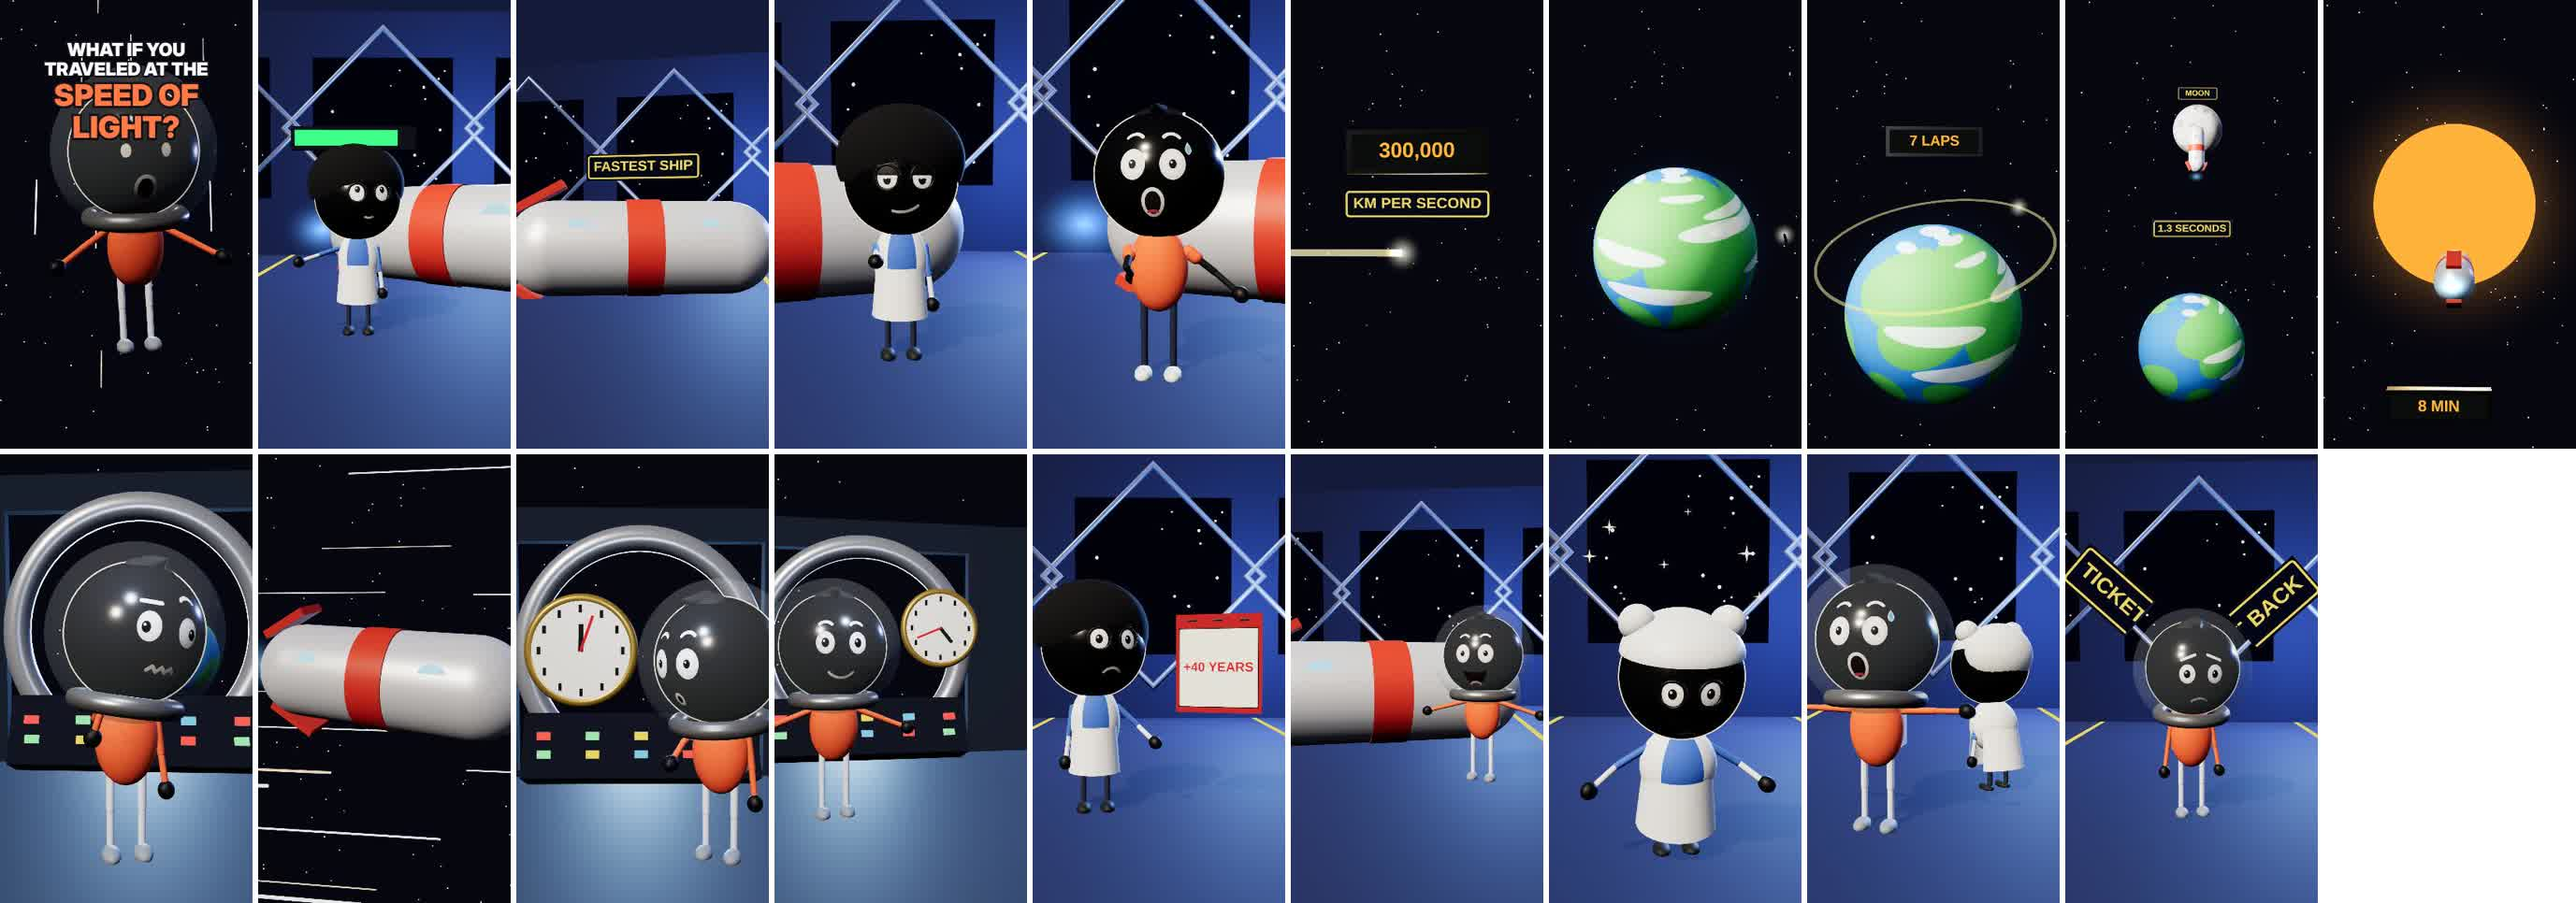
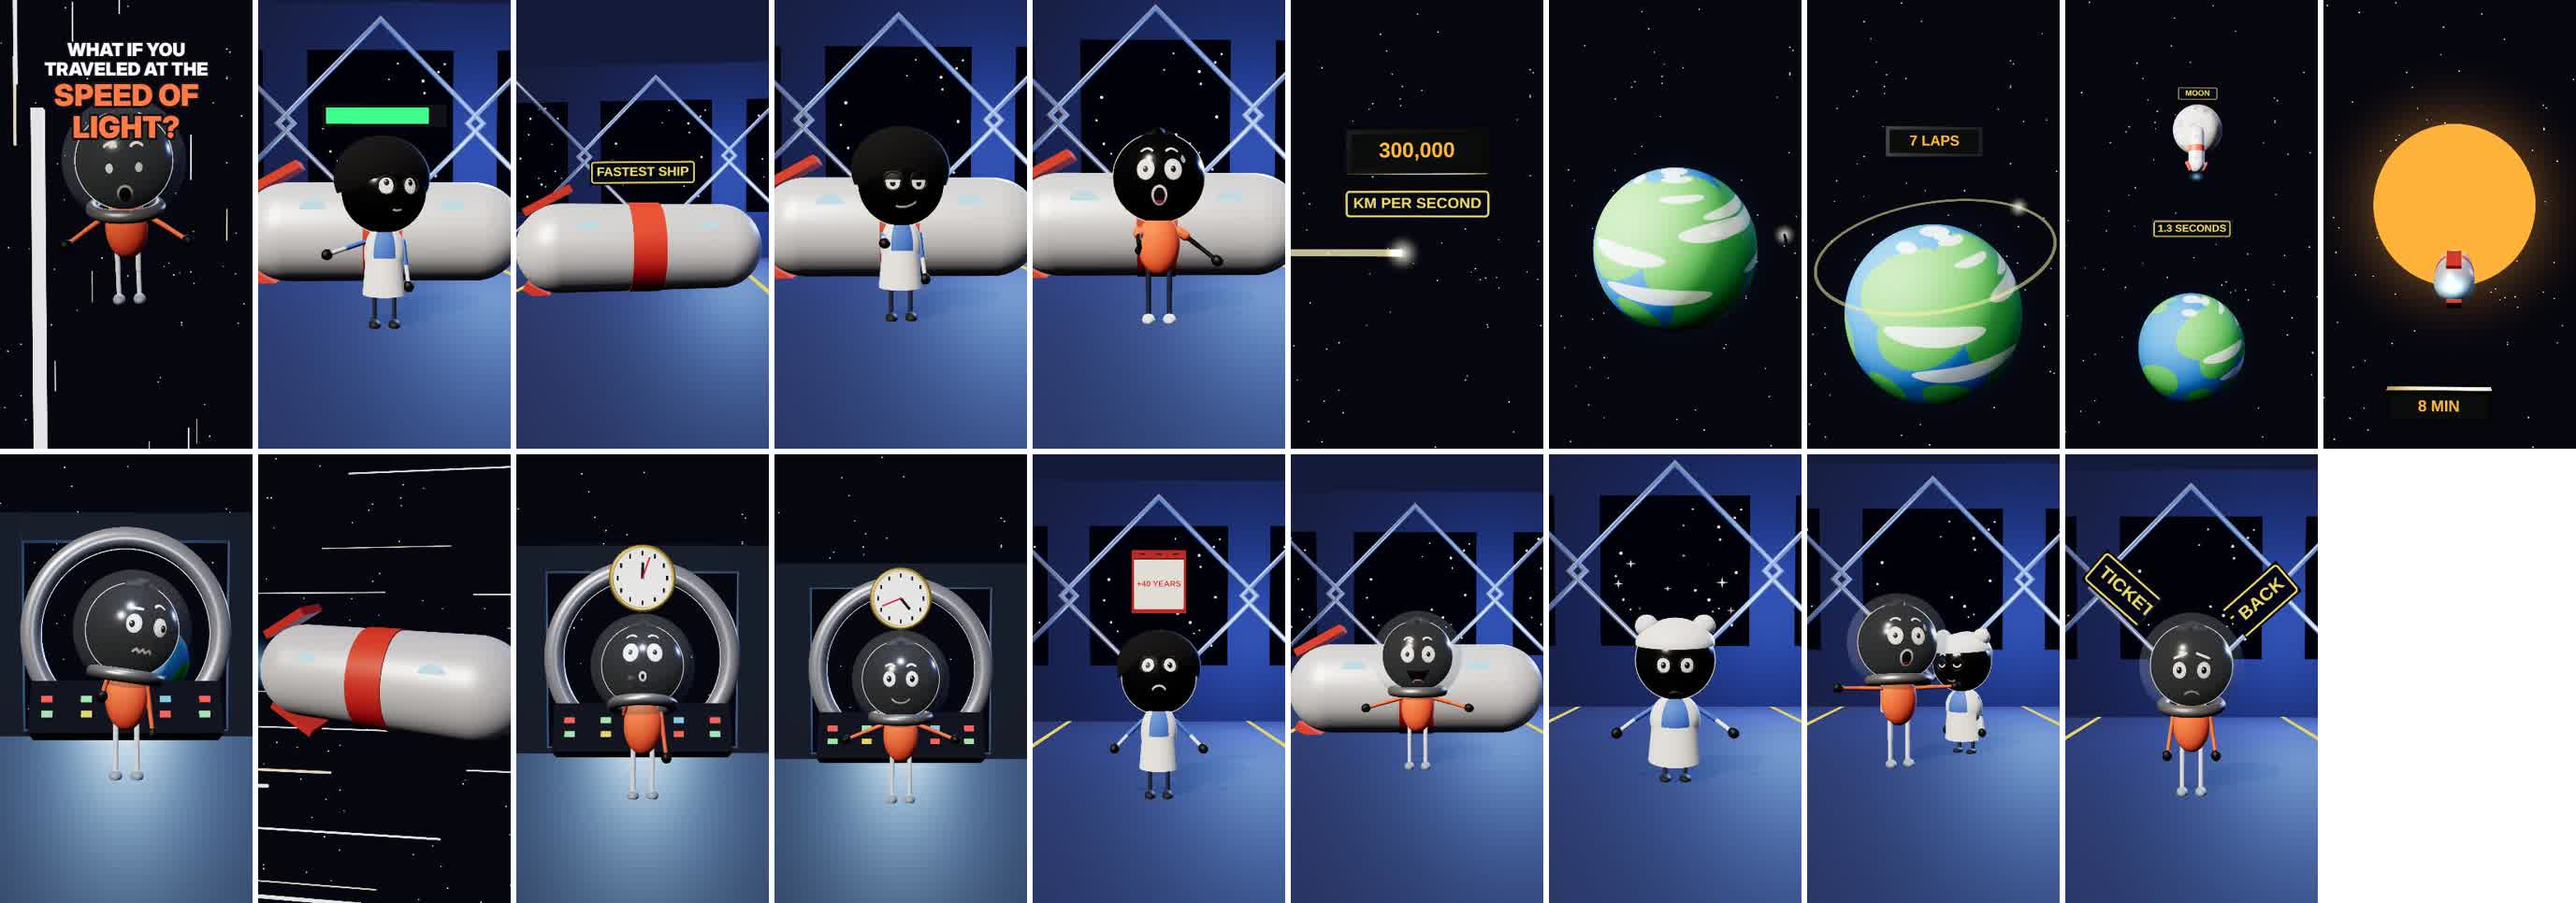
Velocidade da luz: personagens centralizados e câmera de corpo inteiro em todas as cenas
Claude-Session: https://claude.ai/code/session_016bHbYJzCDeLaYLq6osUnLA

diff --git a/velocidade-luz-shorts/src/shots.tsx b/velocidade-luz-shorts/src/shots.tsx
@@ -5,7 +5,7 @@ import { ASTRO, BreakingSign, Clock, Cockpit, Earth, FloatSign, Floating, Ship, 
 import { Titulo } from './hud';
 import { IARA, IARA_IDOSA, Lab, LightBolt, Moon, NINO, OrbitTrail, Ready, Space, Sun } from './luz';
 import { Calendar, LedCounter, Sparkles } from './props';
-import { Cam } from './sets';
+import { Cam, CamKey } from './sets';
 import { W } from './timeline';
 
 // ============================================================================
@@ -20,6 +20,12 @@ export type Shot = { from: number; name: string; C: (p: ShotProps) => JSX.Elemen
 const P = (o: Partial<Pose> = {}): Pose => ({ ...REST, ...o });
 const drift = (t: number, s = 0): V3 => [0.06 * Math.sin(t * 0.7 + s), 0.08 * Math.sin(t * 0.9 + s), 0];
 const FLOAT = { lsz: 0.7, rsz: 0.7, lel: 0.5, rel: 0.5 };
+// Câmera de corpo inteiro, sempre centralizada no personagem (x = 0): aproxima devagar sem cortar cabeça nem pés.
+// y = altura do alvo; d0 → d1 = distância no começo e no fim da tomada; lado = leve órbita lateral.
+const corpo = (t0: number, t1: number, y = 1.25, d0 = 5.8, d1 = 5.2, lado = 0.3): CamKey[] => [
+  [t0, [lado, y + 0.25, d0], [0, y, 0], 32],
+  [t1, [-lado * 0.5, y + 0.2, d1], [0, y, 0], 32],
+];
 
 // 1. "What if you traveled at the speed of *light?*"
 const S01 = ({ t, t0, t1 }: ShotProps) => {
@@ -31,8 +37,8 @@ const S01 = ({ t, t0, t1 }: ShotProps) => {
     <>
       <Space glowPos={[0, 4, -10]} glow="#9fd0ff" />
       <StarStreaks t={t} speed={speed} n={170} />
-      <Cam t={t} t0={t0} t1={t1} keys={[[t0, [0.3, -0.6, 4.4], [0, 0.1, 0], 32], [t1, [0.1, -0.4, 3.6], [0, 0.2, 0], 32]]} />
-      <Floating pose={pose} face={face} position={drift(t)} rotation={[0.15, 0.2, 0.05 * Math.sin(t)]} />
+      <Cam t={t} t0={t0} t1={t1} keys={corpo(t0, t1, 0, 5.6, 5.0, 0.2)} />
+      <Floating pose={pose} face={face} position={[0, drift(t)[1], 0]} rotation={[0.1, 0, 0.04 * Math.sin(t)]} />
     </>
   );
 };
@@ -43,14 +49,14 @@ const O01 = ({ t }: ShotProps) => (
 // 2. "Dr. Teo just *finished*" — a cientista no hangar, ao lado da nave pronta.
 const S02 = ({ t, t0, t1 }: ShotProps) => {
   const fi = W(1, 'finished');
-  const pose = track(t, P({ x: -0.35, ry: 0.0, hy: 0.0 }), [{ at: fi, v: { rsz: 1.4, rsx: 0.6, rel: 0.1, hy: 0.35, hp: -0.05 } }]);
+  const pose = track(t, P({ ry: 0.0, hy: 0.0 }), [{ at: fi, v: { rsz: 1.4, rsx: 0.6, rel: 0.1, hy: 0.35, hp: -0.05 } }]);
   const face = faceAt(t, [{ at: t0, f: 'thinking' }, { at: fi, f: 'confident' }], 2);
   return (
     <>
       <Lab t={t} />
-      <Ship t={0} position={[1.4, 1.05, -3.5]} rotation={[0, -0.6, 0]} scale={1.5} />
-      <Ready t={t} at={fi} position={[-0.4, 2.55, 0.1]} />
-      <Cam t={t} t0={t0} t1={t1} keys={[[t0, [-0.2, 1.7, 5.4], [0.0, 1.4, -0.8], 34], [t1, [0.0, 1.65, 4.7], [0.0, 1.4, -0.8], 34]]} />
+      <Ship t={0} position={[0, 1.05, -3.8]} rotation={[0, 0, 0]} scale={1.5} />
+      <Ready t={t} at={fi} position={[0, 2.75, 0.1]} />
+      <Cam t={t} t0={t0} t1={t1} keys={corpo(t0, t1, 1.35)} />
       <Character pose={pose} face={face} look={IARA} />
     </>
   );
@@ -66,7 +72,7 @@ const S03 = ({ t, t0, t1 }: ShotProps) => {
       <Ship t={t} position={[0, 1.05, -1.2]} rotation={[0, 0.25 * Math.sin(t * 0.3), 0]} scale={1.5} />
       <FloatSign t={t} at={fa} text="FASTEST SHIP" position={[0, 2.9, -1.2]} w={2.6} h={0.6} />
       <Sparkles t={t} from={wo} n={10} radius={2.0} center={[0, 1.3, -1]} size={0.3} />
-      <Cam t={t} t0={t0} t1={t1} keys={[[t0, [-4.5, 1.6, 7.5], [0, 1.5, -1.2], 34], [t1, [3.8, 1.8, 7.2], [0, 1.6, -1.2], 34]]} />
+      <Cam t={t} t0={t0} t1={t1} keys={[[t0, [-1.6, 1.8, 8.4], [0, 1.6, -1.2], 34], [t1, [1.6, 1.9, 8.0], [0, 1.6, -1.2], 34]]} />
     </>
   );
 };
@@ -80,8 +86,8 @@ const S04 = ({ t, t0, t1 }: ShotProps) => {
   return (
     <>
       <Lab t={t} />
-      <Ship t={0} position={[-1.9, 1.05, -2.5]} rotation={[0, 0.4, 0]} scale={1.5} />
-      <Cam t={t} t0={t0} t1={t1} keys={[[t0, [0.3, 1.6, 4.6], [0, 1.3, 0], 32], [t1, [0.1, 1.6, 3.9], [0, 1.35, 0], 32]]} />
+      <Ship t={0} position={[0, 1.05, -3.8]} scale={1.5} />
+      <Cam t={t} t0={t0} t1={t1} keys={corpo(t0, t1)} />
       <Character pose={pose} face={face} look={IARA} />
     </>
   );
@@ -90,13 +96,13 @@ const S04 = ({ t, t0, t1 }: ShotProps) => {
 // 5. "*You.*" — Nino aponta para si mesmo.
 const S05 = ({ t, t0, t1 }: ShotProps) => {
   const y = W(3, 'you');
-  const pose = track(t, P({ ry: -0.1 }), [{ at: y, v: { rsx: 1.2, rsz: -0.1, rel: -2.3, lsz: 0.9, lel: 0.4, squash: 0.08, hp: -0.1 } }]);
+  const pose = track(t, P({ ry: 0 }), [{ at: y, v: { rsx: 1.2, rsz: -0.1, rel: -2.3, lsz: 0.9, lel: 0.4, squash: 0.08, hp: -0.1 } }]);
   const face = faceAt(t, [{ at: t0, f: 'surprised' }, { at: y + 0.35, f: 'shocked', o: ['sweat'] }], 4);
   return (
     <>
       <Lab t={t} />
-      <Ship t={0} position={[2.0, 1.05, -3]} rotation={[0, -0.4, 0]} scale={1.5} />
-      <Cam t={t} t0={t0} t1={t1} keys={[[t0, [0.1, 1.6, 4.4], [0, 1.3, 0], 30], [t1, [0, 1.6, 3.7], [0, 1.35, 0], 30]]} />
+      <Ship t={0} position={[0, 1.05, -3.8]} scale={1.5} />
+      <Cam t={t} t0={t0} t1={t1} keys={corpo(t0, t1, 1.2, 5.4, 4.9, 0.15)} />
       <Character pose={pose} face={face} look={NINO} />
     </>
   );
@@ -182,14 +188,14 @@ const S10 = ({ t, t0, t1 }: ShotProps) => {
 // 11. "But here's where it gets *weird.*" — Nino na cabine, desconfiado.
 const S11 = ({ t, t0, t1 }: ShotProps) => {
   const we = W(8, 'weird');
-  const pose = track(t, P({ ry: 0.2 }), [{ at: we, v: { rsx: 2.2, rsz: 0.3, rel: -2.3, hy: 0.3, hr: -0.15 } }]);
+  const pose = track(t, P({ ry: 0 }), [{ at: we, v: { rsx: 2.2, rsz: 0.3, rel: -2.3, hy: 0.3, hr: -0.15 } }]);
   const face = faceAt(t, [{ at: t0, f: 'curious' }, { at: we, f: 'confused' }], 5);
   return (
     <>
       <Space glowPos={[0, 2, -10]} glow="#9fd0ff" />
       <Cockpit />
       <Earth t={t} position={[1, 1.4, -12]} r={1.4} />
-      <Cam t={t} t0={t0} t1={t1} keys={[[t0, [0.4, 1.7, 3.8], [0, 1.4, 0], 32], [t1, [0.1, 1.65, 3.1], [0, 1.45, 0], 32]]} />
+      <Cam t={t} t0={t0} t1={t1} keys={corpo(t0, t1, 1.2, 5.4, 4.9)} />
       <Character pose={pose} face={face} look={ASTRO} />
     </>
   );
@@ -215,14 +221,14 @@ const S12 = ({ t, t0, t1 }: ShotProps) => {
 const S13 = ({ t, t0, t1 }: ShotProps) => {
   const sl = W(9, 'slower');
   const clk = (t - t0) * 40 * (1 - 0.95 * seg(t, t0, sl));
-  const pose = track(t, P({ ry: -0.4, x: 0.7, hy: -0.5 }), [{ at: sl, v: { hp: 0.1, rsx: 1.4, rsz: 0.2, rel: -0.3 } }]);
+  const pose = track(t, P({ ry: 0, hp: -0.25 }), [{ at: sl, v: { hp: -0.3, rsx: 2.6, rsz: 0.2, rel: -0.2 } }]);
   const face = faceAt(t, [{ at: t0, f: 'curious' }, { at: sl, f: 'surprised' }], 6);
   return (
     <>
       <Space glowPos={[0, 2, -10]} glow="#9fd0ff" />
       <Cockpit />
-      <Clock time={clk} position={[-0.7, 1.9, -1.2]} scale={1.2} />
-      <Cam t={t} t0={t0} t1={t1} keys={[[t0, [-0.2, 1.8, 4.2], [0, 1.6, -0.6], 32], [t1, [0, 1.75, 3.5], [0, 1.6, -0.6], 32]]} />
+      <Clock time={clk} position={[0, 3.05, -0.6]} scale={0.9} />
+      <Cam t={t} t0={t0} t1={t1} keys={corpo(t0, t1, 1.6, 6.0, 5.5)} />
       <Character pose={pose} face={face} look={ASTRO} />
     </>
   );
@@ -232,16 +238,16 @@ const S13 = ({ t, t0, t1 }: ShotProps) => {
 const S14 = ({ t, t0, t1 }: ShotProps) => {
   const mi = W(10, 'minutes');
   const clk = 60 * 5 * seg(t, t0, mi);
-  const pose = track(t, P({ ry: 0.15 }), [{ at: W(10, 'ship'), v: { lsz: 1.2, rsz: 1.2, lel: 0.3, rel: 0.3 } }, { at: mi, v: { lsz: 0.2, rsz: 0.2, lel: 0.15, rel: 0.15, rsx: 1.6 } }]);
+  const pose = track(t, P({ ry: 0 }), [{ at: W(10, 'ship'), v: { lsz: 1.2, rsz: 1.2, lel: 0.3, rel: 0.3 } }, { at: mi, v: { lsz: 0.2, rsz: 0.2, lel: 0.15, rel: 0.15, rsx: 1.6 } }]);
   const face = faceAt(t, [{ at: t0, f: 'smile' }, { at: mi, f: 'confident' }], 7);
   return (
     <>
       <Space glowPos={[0, 2, -10]} glow="#9fd0ff" />
       <Cockpit />
-      <Clock time={clk} position={[0.95, 2.1, -1.2]} scale={1.0} />
-      <FloatSign t={t} at={mi} text="5 MINUTES" position={[0.95, 1.2, -1.2]} w={1.5} h={0.4} />
-      <Cam t={t} t0={t0} t1={t1} keys={[[t0, [-0.6, 1.6, 4.6], [0.3, 1.4, -0.5], 34], [t1, [-0.3, 1.6, 4.0], [0.3, 1.45, -0.5], 34]]} />
-      <Character pose={P({ ...pose, x: -0.5 })} face={face} look={ASTRO} />
+      <Clock time={clk} position={[0, 3.05, -0.6]} scale={0.9} />
+      <FloatSign t={t} at={mi} text="5 MINUTES" position={[0, 3.9, -0.6]} w={1.6} h={0.42} />
+      <Cam t={t} t0={t0} t1={t1} keys={corpo(t0, t1, 1.8, 6.6, 6.0)} />
+      <Character pose={pose} face={face} look={ASTRO} />
     </>
   );
 };
@@ -250,13 +256,13 @@ const S14 = ({ t, t0, t1 }: ShotProps) => {
 const S15 = ({ t, t0, t1 }: ShotProps) => {
   const ye = W(11, 'years');
   const pages = ['2026', '2030', '2035', '2040', '2045', '2050', '2055', '2060', '2066', '+40 YEARS'];
-  const pose = track(t, P({ x: -0.6, ry: 0.15, hy: 0.15 }), [{ at: ye, v: { hy: 0.35, hp: -0.05, lsz: 0.8, lel: 0.6 } }]);
+  const pose = track(t, P({ ry: 0, hp: -0.2 }), [{ at: ye, v: { hp: -0.3, lsz: 0.8, lel: 0.6, rsz: 0.8, rel: 0.6 } }]);
   const face = faceAt(t, [{ at: t0, f: 'thinking' }, { at: ye, f: 'worried' }], 8);
   return (
     <>
       <Lab t={t} />
-      <Calendar t={t} from={t0} at={ye} pages={pages} position={[0.75, 1.6, 0]} rotation={[0, -0.25, 0]} scale={0.95} />
-      <Cam t={t} t0={t0} t1={t1} keys={[[t0, [0.2, 1.6, 5.0], [0.1, 1.4, 0], 32], [t1, [0.0, 1.55, 4.4], [0.1, 1.45, 0], 32]]} />
+      <Calendar t={t} from={t0} at={ye} pages={pages} position={[0, 3.25, -0.4]} scale={0.85} />
+      <Cam t={t} t0={t0} t1={t1} keys={corpo(t0, t1, 1.75, 6.6, 6.0)} />
       <Character pose={pose} face={face} look={IARA} />
     </>
   );
@@ -266,14 +272,14 @@ const S15 = ({ t, t0, t1 }: ShotProps) => {
 const S16 = ({ t, t0, t1 }: ShotProps) => {
   const ho = W(12, 'home');
   const land = seg(t, t0, ho);
-  const pose = track(t, P({ x: 1.4, z: 1.2, ry: -0.3 }), [{ at: ho, v: { lsz: 1.3, rsz: 1.3, lel: 0.2, rel: 0.2 } }]);
+  const pose = track(t, P({ z: 0.8 }), [{ at: ho, v: { lsz: 1.3, rsz: 1.3, lel: 0.2, rel: 0.2 } }]);
   const face = faceAt(t, [{ at: t0, f: 'happy' }, { at: ho, f: 'bigSmile' }], 9);
   return (
     <>
       <Lab t={t} />
-      <Ship t={t} position={[-0.4, 1.05 + 3 * (1 - land), -1.6]} rotation={[0, 0.3, 0]} scale={1.5} />
+      <Ship t={t} position={[0, 1.05 + 3 * (1 - land), -2.6]} scale={1.5} />
       {t > ho - 0.3 && <Character pose={pose} face={face} look={ASTRO} />}
-      <Cam t={t} t0={t0} t1={t1} keys={[[t0, [0.6, 2.2, 7.5], [0, 1.8, -1], 34], [t1, [0.8, 1.6, 6.2], [0.4, 1.3, -0.5], 34]]} />
+      <Cam t={t} t0={t0} t1={t1} keys={[[t0, [0.2, 2.2, 8.2], [0, 1.9, -1], 34], [t1, [-0.1, 1.6, 6.4], [0, 1.3, 0], 34]]} />
     </>
   );
 };
@@ -281,12 +287,12 @@ const S16 = ({ t, t0, t1 }: ShotProps) => {
 // 17. "and Dr. Teo has *white* *hair.*" — Dra. Iara idosa.
 const S17 = ({ t, t0, t1 }: ShotProps) => {
   const wh = W(12, 'white');
-  const pose = track(t, P({ ry: 0.15, lean: 0.1 }), [{ at: wh, v: { lsz: 1.0, rsz: 1.0, lel: 0.5, rel: 0.5, hp: 0.05 } }]);
+  const pose = track(t, P({ ry: 0 }), [{ at: wh, v: { lsz: 1.0, rsz: 1.0, lel: 0.5, rel: 0.5, hp: 0.05 } }]);
   const face = faceAt(t, [{ at: t0, f: 'content' }, { at: wh, f: 'happy' }], 10);
   return (
     <>
       <Lab t={t} />
-      <Cam t={t} t0={t0} t1={t1} keys={[[t0, [0.1, 1.6, 4.4], [0, 1.35, 0], 30], [t1, [0, 1.6, 3.4], [0, 1.45, 0], 30]]} />
+      <Cam t={t} t0={t0} t1={t1} keys={corpo(t0, t1, 1.25, 5.6, 5.0, 0.15)} />
       <Character pose={pose} face={face} look={IARA_IDOSA} />
       <Sparkles t={t} from={wh} n={8} radius={0.7} center={[0, 2.4, 0]} size={0.16} />
     </>
@@ -301,9 +307,9 @@ const S18 = ({ t, t0, t1 }: ShotProps) => {
   return (
     <>
       <Lab t={t} />
-      <Character pose={P({ x: 0.9, z: -1.2, ry: -2.6 })} face={{ f: 'content', blink: 0, o: [] }} look={IARA_IDOSA} />
-      <Cam t={t} t0={t0} t1={t1} keys={[[t0, [0.4, 1.7, 4.4], [0.2, 1.35, -0.4], 32], [t1, [0.1, 1.65, 3.6], [0.1, 1.4, -0.4], 32]]} />
-      <Character pose={P({ ...pose, x: -0.4 })} face={face} look={ASTRO} />
+      <Character pose={P({ x: 0.55, z: -1.0, ry: -0.5 })} face={{ f: 'content', blink: 0, o: [] }} look={IARA_IDOSA} />
+      <Cam t={t} t0={t0} t1={t1} keys={corpo(t0, t1, 1.25, 6.4, 5.8, 0.2)} />
+      <Character pose={P({ ...pose, x: -0.5, ry: 0.3 })} face={face} look={ASTRO} />
     </>
   );
 };
@@ -311,13 +317,13 @@ const S18 = ({ t, t0, t1 }: ShotProps) => {
 // 19. "and there's *no* ticket *back.*" — a placa "TICKET BACK" racha ao meio.
 const S19 = ({ t, t0, t1 }: ShotProps) => {
   const bk = W(13, 'back');
-  const pose = track(t, P({ ry: 0.2, hp: -0.2, hy: 0.3 }), [{ at: bk, v: { hp: 0.15, hy: 0, lsz: 0.15, rsz: 0.15 } }]);
+  const pose = track(t, P({ ry: 0, hp: -0.25 }), [{ at: bk, v: { hp: 0.15, hy: 0, lsz: 0.15, rsz: 0.15 } }]);
   const face = faceAt(t, [{ at: t0, f: 'lookUp' }, { at: bk, f: 'worried' }], 12);
   return (
     <>
       <Lab t={t} />
-      <BreakingSign t={t} appear={t0 + 0.15} at={bk} text="TICKET BACK" position={[0, 2.85, 0.3]} w={2.0} h={0.55} fg="#ffd23a" />
-      <Cam t={t} t0={t0} t1={t1} keys={[[t0, [0.2, 1.9, 4.6], [0, 1.8, 0], 32], [t1, [0.1, 1.8, 5.2], [0, 1.6, 0], 32]]} />
+      <BreakingSign t={t} appear={t0 + 0.15} at={bk} text="TICKET BACK" position={[0, 3.0, 0]} w={2.0} h={0.55} fg="#ffd23a" />
+      <Cam t={t} t0={t0} t1={t1} keys={corpo(t0, t1, 1.6, 6.0, 5.6, 0.15)} />
       <Character pose={pose} face={face} look={ASTRO} />
     </>
   );
